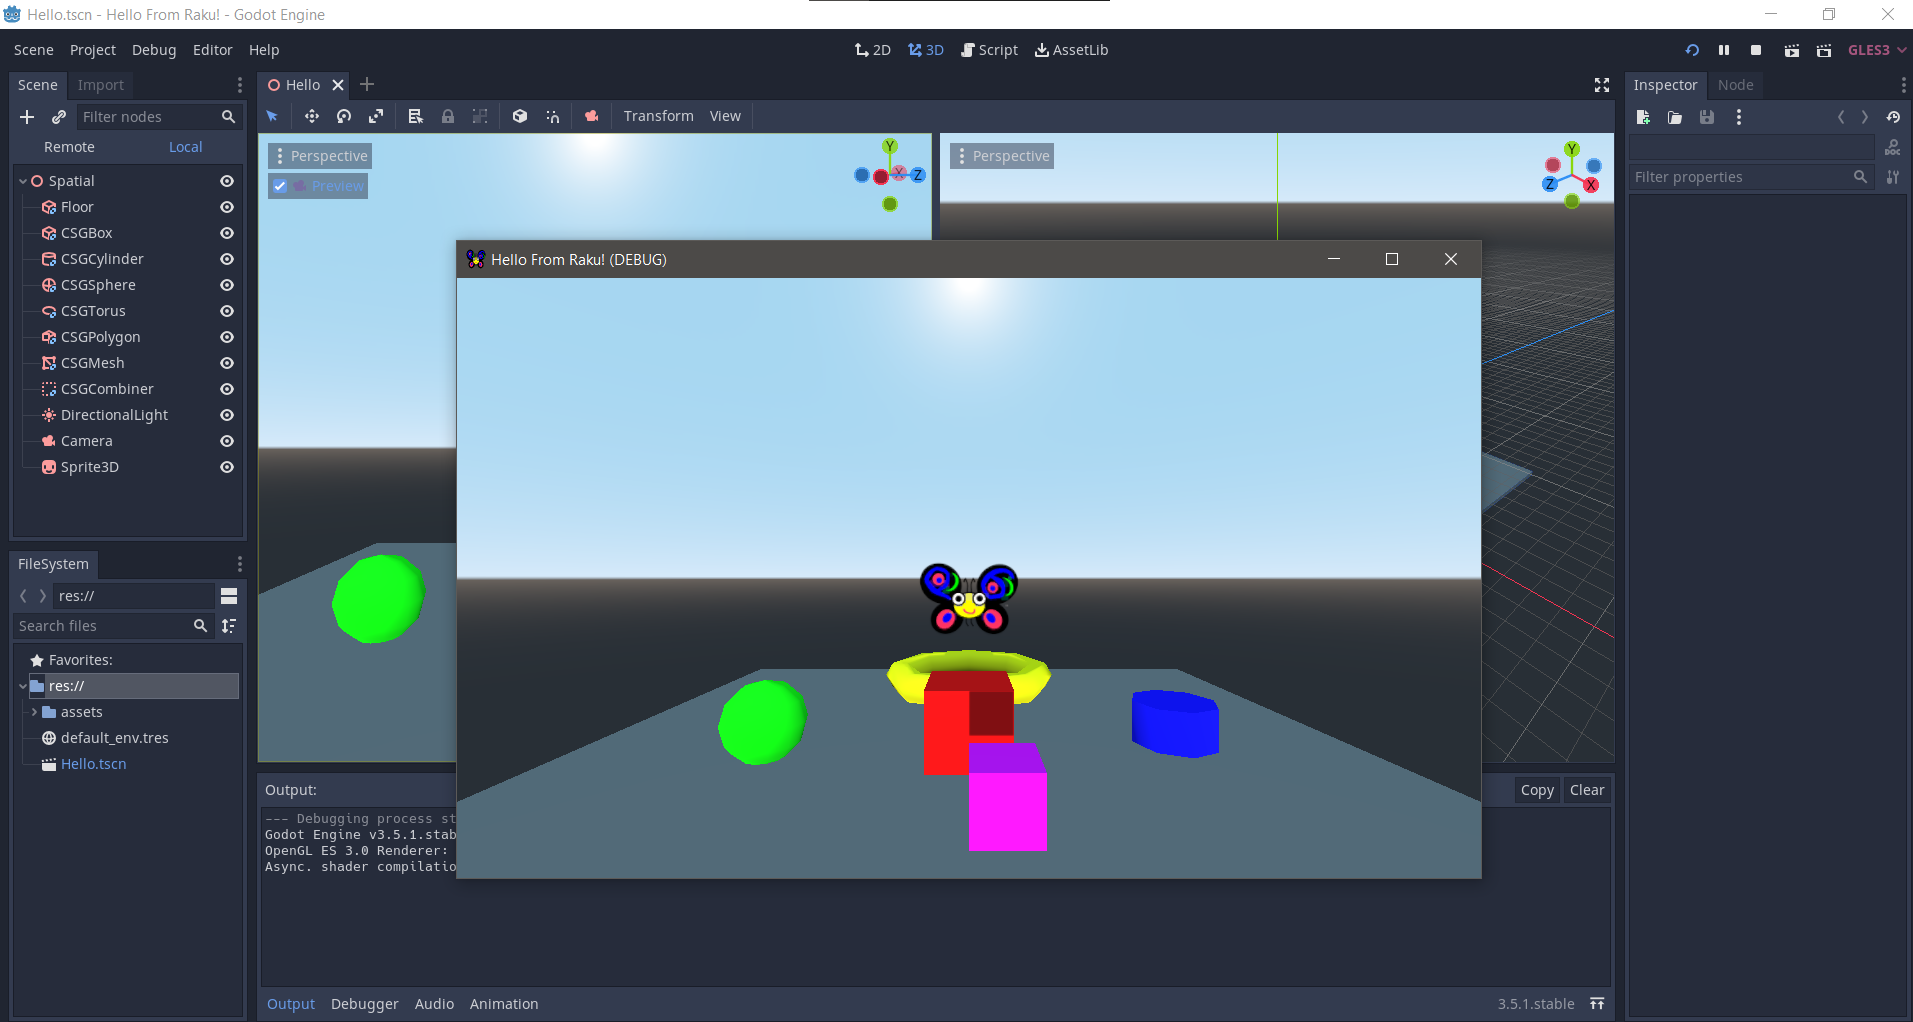
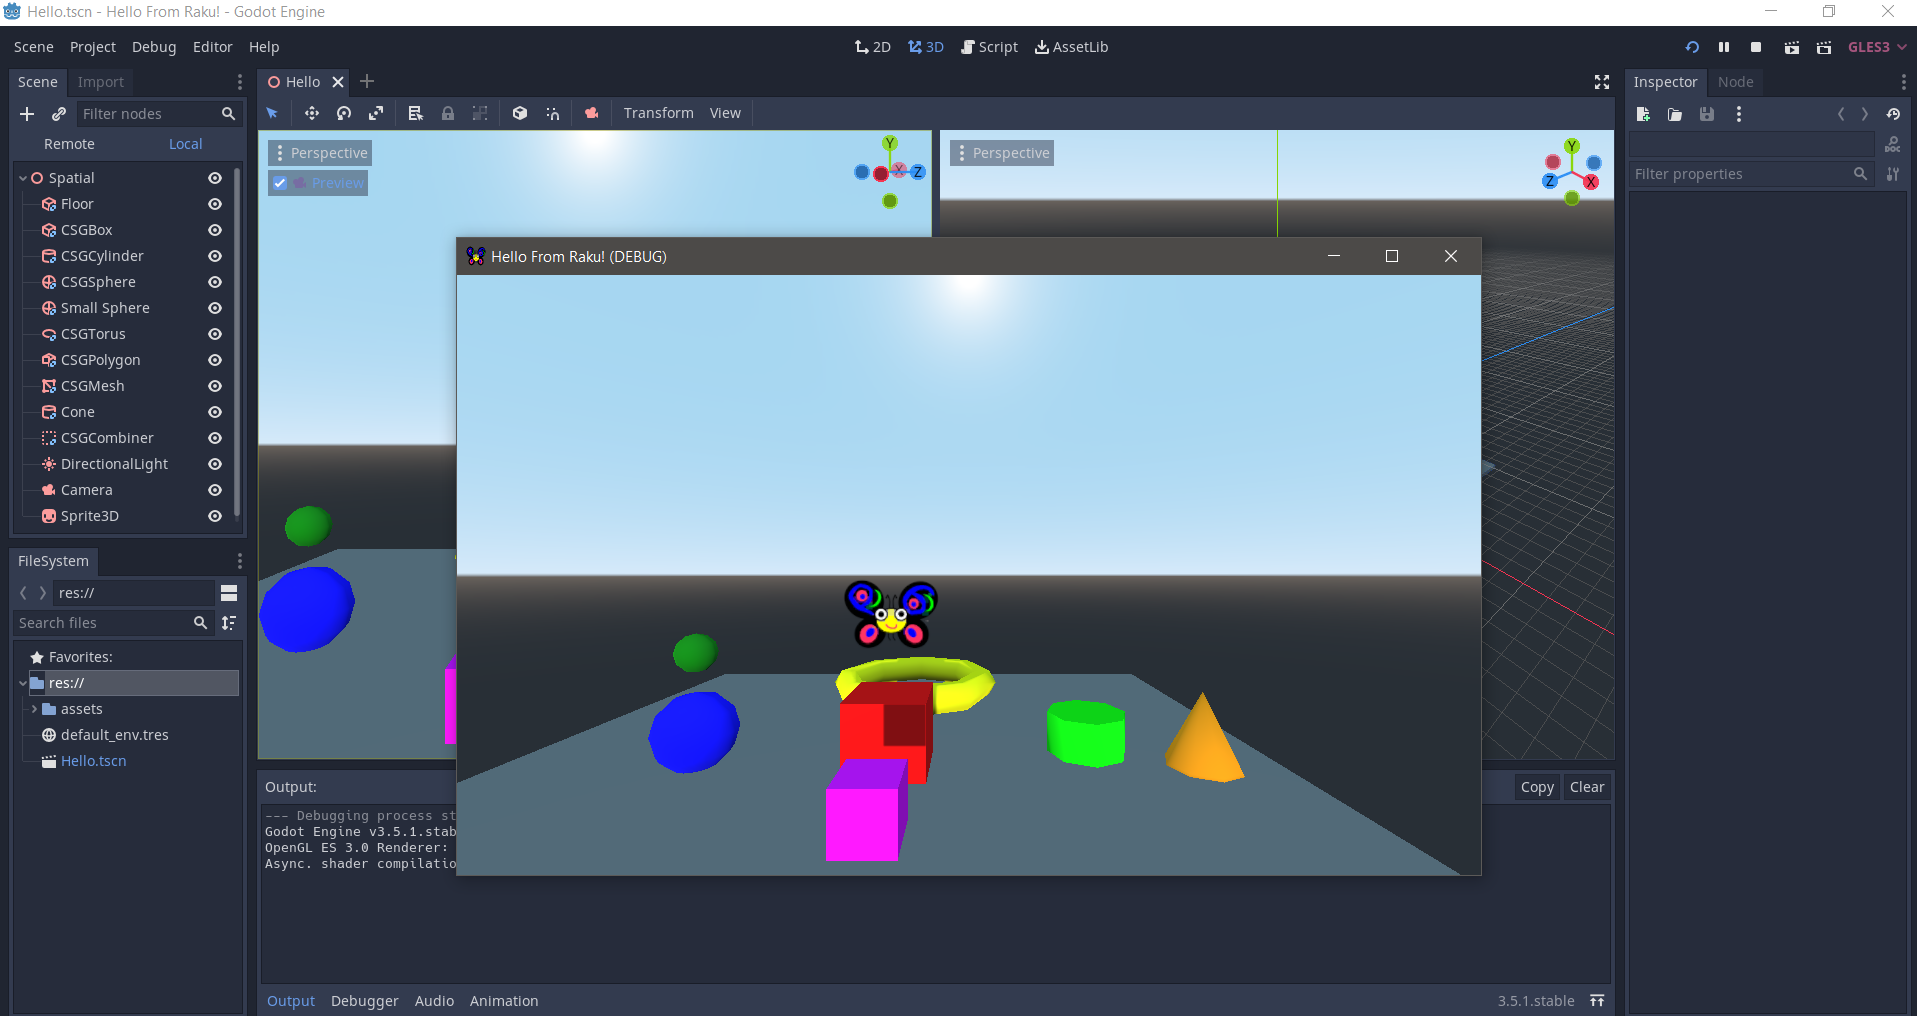
Add radius, radial_segments, rings and smooth_faces to CSGSphere. Add smooth_faces to CSGCylinder. Update screenshot and change log

diff --git a/CHANGELOG.md b/CHANGELOG.md
@@ -6,6 +6,8 @@
 - Add a grey CSG Box floor in the example.
 - Add radius, height, sides and cone flag to CSGCylinder.
 - Add an orange cone in the example.
+- Add radius, radial_segments, rings and smooth_faces to CSGSphere.
+- Add smooth_faces to CSGCylinder.
 
 ## 0.4.0 - Fri 2022-09-30
 - Add node name validation.
